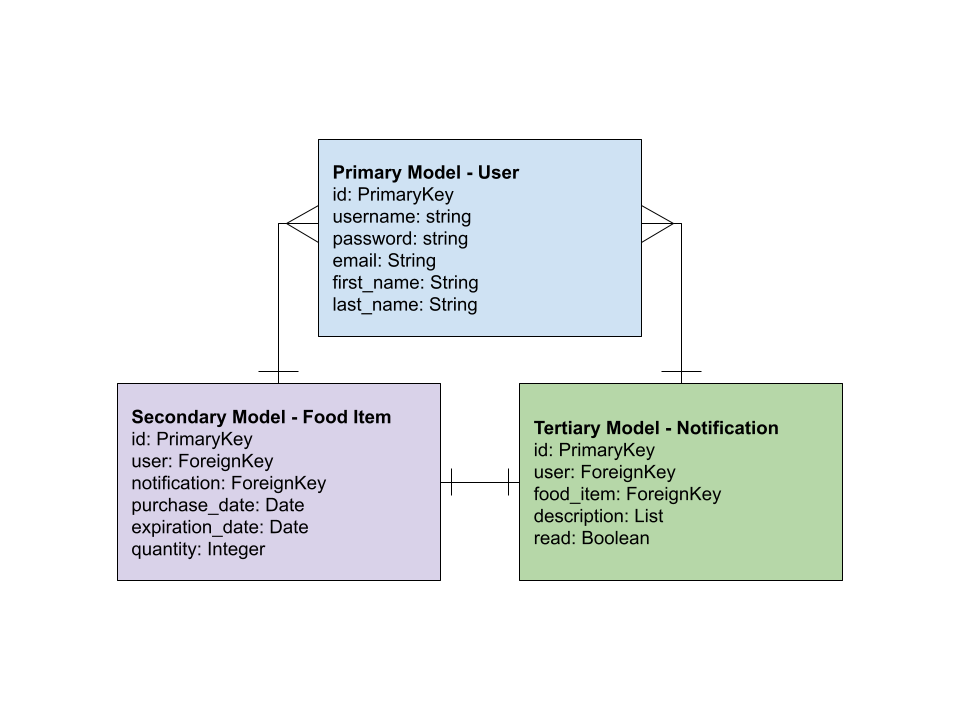
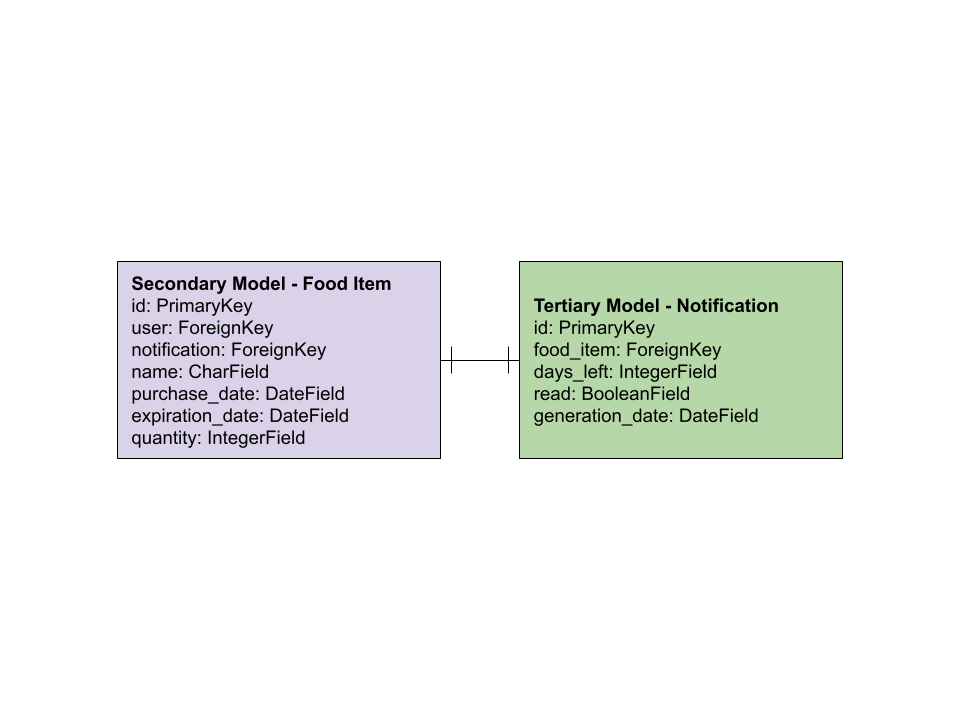
update planning docs

diff --git a/backend/main_app/migrations/0002_fooditem_user.py b/backend/main_app/migrations/0002_fooditem_user.py
@@ -1,0 +1,22 @@
+# Generated by Django 4.2.5 on 2023-09-25 13:13
+
+from django.conf import settings
+from django.db import migrations, models
+import django.db.models.deletion
+
+
+class Migration(migrations.Migration):
+
+    dependencies = [
+        migrations.swappable_dependency(settings.AUTH_USER_MODEL),
+        ('main_app', '0001_initial'),
+    ]
+
+    operations = [
+        migrations.AddField(
+            model_name='fooditem',
+            name='user',
+            field=models.ForeignKey(default=1, on_delete=django.db.models.deletion.CASCADE, to=settings.AUTH_USER_MODEL),
+            preserve_default=False,
+        ),
+    ]

diff --git a/backend/main_app/migrations/0003_remove_fooditem_user.py b/backend/main_app/migrations/0003_remove_fooditem_user.py
@@ -1,0 +1,17 @@
+# Generated by Django 4.2.5 on 2023-09-25 13:20
+
+from django.db import migrations
+
+
+class Migration(migrations.Migration):
+
+    dependencies = [
+        ('main_app', '0002_fooditem_user'),
+    ]
+
+    operations = [
+        migrations.RemoveField(
+            model_name='fooditem',
+            name='user',
+        ),
+    ]

diff --git a/lib/planning.md b/lib/planning.md
@@ -61,12 +61,21 @@ A full-stack application that allows users to login, add food items and their ex
 
 
 ## ERD
+### MVP
 ![ERD](./assets/planning/erd.png)
+
+### Icebox
+![Icebox ERD](./assets/planning/erd-icebox.png)
+
+## Component Tree
+### MVP
+![Component Tree](./assets/planning/components.png)
+
+### Icebox
+![Component Tree](./assets/planning/components-icebox.png)
 
 ## User Stories
 ### MVP
-- As a user, I want to be able to sign up for the application to keep personalized data.
-- As a user, I want to be able to login to access personalized data.
 - As a user, I want to be able to access a fridge list with all of my food items and their expiration dates displayed.
 - As a user, I want to be able to add food items and their expiration dates to the fridge.
 - As a user, I want to be able to delete a food item if I eat or discard it.
@@ -79,4 +88,6 @@ A full-stack application that allows users to login, add food items and their ex
 ### Icebox
 - As a user, I want to be able to record how much food I discard- as opposed to delete- to keep track of how much food I waste.
 - As a user, I want to be able to record how much food I eat- as opposed to delete or discard- to keep track of how much food I don't waste.
+- As a user, I want to be able to sign up for the application to keep personalized data.
+- As a user, I want to be able to login to access personalized data.
 - As a user, when I open a food item's details page, I want OpenAI's API to suggest recipes.
